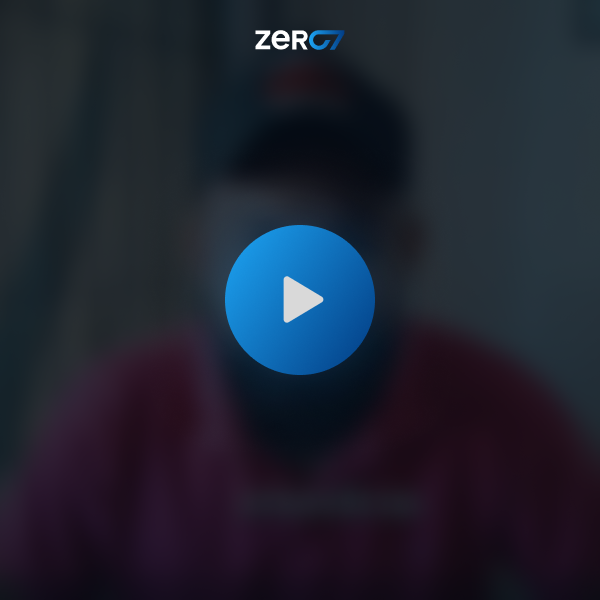
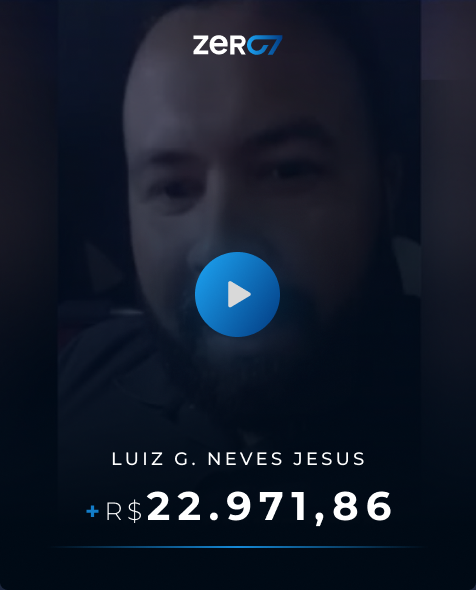
update

diff --git a/index.html b/index.html
@@ -287,50 +287,44 @@
     <section id="depoimentos">
       <div class="wrapper header">
         <div class="content">
-          <header data-aos="fade-up" >
+          <div class="cards">
+            <div class="card">
+                <img src="./assets/depoimentos/1.png" alt="">
+            </div>
+
+            <div class="card swiper-slide">
+                <img src="./assets/depoimentos/2.png" alt="">
+            </div>
+
+            <div class="card swiper-slide">
+              <img src="./assets/depoimentos/3.png" alt="">
+            </div>
+
+            <div class="card swiper-slide">
+                <img src="./assets/depoimentos/4.png" alt="">
+            </div>
+
+            <div class="card swiper-slide">
+              <img src="./assets/depoimentos/5.png" alt="">
+            </div>
+
+            <div class="card swiper-slide">
+                <img src="./assets/depoimentos/6.png" alt="">
+            </div>
+
+            <div class="card swiper-slide">
+              <img src="./assets/depoimentos/7.png" alt="">
+            </div>
+          </div>
+
+          <header data-aos="fade-up">
             <h2>TRANSFORME SUAS HABILIDADES EM <span>GRANDES PAGAMENTOS</span></h2>
             <p>A Zero7 desenvolveu um <span>modelo totalmente único</span> para se operar. Aqui, traders podem ter acesso a grandes contas, com muitos lotes, mas pagando até <span>20 vezes menos</span> do que o valor que teriam que disponibilizar em suas contas pessoais. Depois de aprovados na avaliação - com 60 dias para finalizar -, os traders iniciam sua jornada na mesa através da Incubadora, onde podem operar em ambiente simulado mas sendo recompensados com até <span>90% dos lucros</span> que fizerem, <span>sem risco nenhum ao seu próprio capital</span>. Depois, podem progredir para a conta real e avançarem com um plano de carreira desenhado para terem <span>cada vez mais lucros</span>. A Zero7 conta ainda com inúmeros benefícios, como <span>Aprovação Permanente</span>, <span>treinamentos</span> e <span>cursos completos disponíveis na Área do Trader</span>.</p>
+
+            <a href="#"><button class="button">Contrate um plano agora</button></a>
           </header>
         </div>
       </div>
-
-      <div data-aos="fade-up" class="wrapper carrossel">
-        <div class="swiper mySwiper3">
-            <div class="cards swiper-wrapper">
-                <div class="card swiper-slide">
-                    <img src="./assets/depoimentos/1.png" alt="">
-                </div>
-
-                <div class="card swiper-slide">
-                    <img src="./assets/depoimentos/2.png" alt="">
-                </div>
-
-                <div class="card swiper-slide">
-                  <img src="./assets/depoimentos/3.png" alt="">
-                </div>
-
-                <div class="card swiper-slide">
-                    <img src="./assets/depoimentos/4.png" alt="">
-                </div>
-
-                <div class="card swiper-slide">
-                  <img src="./assets/depoimentos/5.png" alt="">
-                </div>
-
-                <div class="card swiper-slide">
-                    <img src="./assets/depoimentos/6.png" alt="">
-                </div>
-
-                <div class="card swiper-slide">
-                  <img src="./assets/depoimentos/7.png" alt="">
-                </div>
-            </div>
-
-            <div class="swiper-button-next"></div>
-            <div class="swiper-button-prev"></div>
-            <div class="swiper-pagination"></div>
-        </div>
-    </div>
     </section>
 
     <section class="planos">
@@ -733,8 +727,8 @@
           </header>
 
           <div class="cards">
-            <div class="border">
-              <div data-aos="fade-up-left" class="card">
+            <div data-aos="fade-up-left" class="border">
+              <div class="card">
                 <ion-icon name="call-outline"></ion-icon>
                 <div class="text">
                   <h3>Contato</h3>
@@ -744,8 +738,8 @@
               </div>
             </div>
 
-            <div class="border">
-              <div data-aos="fade-up" class="card">
+            <div data-aos="fade-up" class="border">
+              <div class="card">
                 <ion-icon name="location-outline"></ion-icon>
                 <div class="text">
                   <h3>Endereço</h3>
@@ -754,8 +748,8 @@
               </div>
             </div>
 
-            <div class="border">
-              <div data-aos="fade-up-right" class="card">
+            <div data-aos="fade-up-right" class="border">
+              <div class="card">
                 <ion-icon name="time-outline"></ion-icon>
                 <div class="text">
                   <h3>Funcionamento</h3>
@@ -767,22 +761,22 @@
 
           <div id="suporte">
               <div class="content">
-                    <div class="border">
-                      <div data-aos="fade-up-left" class="whatsapp">
+                    <div data-aos="fade-up-left" class="border">
+                      <div class="whatsapp">
                         <ion-icon name="logo-whatsapp"></ion-icon>
         
                         <p>Atendimento por Whatsapp</p>
                       </div>
                     </div>
         
-                    <div class="border">
-                      <div data-aos="fade-up" class="image">
+                    <div data-aos="fade-up" class="border">
+                      <div class="image">
                         <img src="./assets/banner.png" alt="">
                       </div>
                     </div>
         
-                    <div class="border">
-                      <div data-aos="fade-up-right" class="ajuda">
+                    <div data-aos="fade-up-right" class="border">
+                      <div class="ajuda">
                         <span><ion-icon name="flash-outline"></ion-icon> Suporte rápido</span>
                         <h3>Precisa de <span>ajuda?</span></h3>
                         <p>Nossa equipe está <span>pronta para conversar com você</span>!</p>

diff --git a/css/sectionDepoimentos.css b/css/sectionDepoimentos.css
@@ -9,7 +9,9 @@
 }
 
 #depoimentos .cards {
-    border-radius: 1rem;
+    display: grid;
+    grid-template-columns: 1fr 1fr 1fr;
+    gap: 1rem;
 }
 
 #depoimentos .cards .card {
@@ -22,12 +24,9 @@
 
 #depoimentos .cards .card img {
     width: 100%;
-    aspect-ratio: 1/1;
     object-fit: cover;
 
     transition: all 300ms ease-in-out;
-
-    mask-image: linear-gradient(to bottom, #000 70%, transparent);
 }
 
 #depoimentos .cards .card:hover img {
@@ -39,70 +38,30 @@
     position: relative;
 }
 
-.swiper-pagination-bullet {
-    background-color: #ffffff2e; 
-    opacity: 1; 
-    width: 15px;
-    height: 4px;
-    border-radius: .3rem;
-}
-  
-.swiper-pagination-bullet-active {
-    background-color: #0080c9; 
-}
-
-.swiper-button-next {
-    top: 50%;
-    color: #ffffff; 
-    transform: scale(.7);
-}
-  
-.swiper-button-prev {
-    top: 50%;
-    color: #ffffff; 
-    transform: scale(.7);
-}
-
 @media (min-width: 1080px) {
+    section#depoimentos .content {
+        display: grid;
+        grid-template-columns: 1fr 1fr;
+        gap: 8rem;
+    }
+
+    section#depoimentos .cards {
+        display: grid;
+        grid-template-columns: 1fr 1fr 1fr;
+        gap: 1rem;
+    }
+
+    section#depoimentos header {
+        text-align: left;
+        align-items: start;
+    }
+
     section#depoimentos header h2 {
         font-size: 2.7rem;
     }
 
     section#depoimentos header p {
         font-size: 1.4rem;
-    }
-
-    section#depoimentos .content .cards {
-        overflow: initial;
-        border-radius: 0;
-    }
-
-    section#depoimentos .card img {
-        mask-image: linear-gradient(to bottom, #000 70%, transparent);
-    }
-
-    section#depoimentos .swiper {
-        position: relative;
-    }
-
-    section#depoimentos .swiper:before,
-    section#depoimentos .swiper:after {
-        content: '';
-        position: absolute;
-        top: 0;
-        width: 20rem;
-        height: 100%;
-        z-index: 2;
-    }
-    
-    section#depoimentos .swiper:before {
-        left: 0;
-        background: linear-gradient(to left, rgba(255, 255, 255, 0), #000205);
-    }
-    
-    section#depoimentos .swiper:after {
-        right: 0;
-        background: linear-gradient(to right, rgba(255, 255, 255, 0), #000205);
     }
 
     section#depoimentos .wrapper.carrossel {

diff --git a/css/sectionCards.css b/css/sectionCards.css
@@ -31,6 +31,10 @@
     bottom: 0;
 }
 
+#cards::before {
+    display: none;
+}
+
 #cards .content {
     position: relative;
     z-index: 1;
@@ -172,6 +176,10 @@
 
     section#cards header h2 {
         width: 70%;
+    }
+
+    section#cards img.bgsection {
+        mask-image: linear-gradient(to top, #000 80%, transparent);
     }
 
     section#cards .cards .row-1 {

diff --git a/css/home.css b/css/home.css
@@ -49,12 +49,16 @@
     font-family: var(--ncs);
     text-transform: uppercase;
     font-weight: 500;
+    line-height: 1.2;
   }
   
   #home h1 span {
-    font-size: 4rem;
+    font-size: 2.5rem;
     font-family: var(--ncs);
     color: var(--primary-color);
+
+    min-width: 50%;
+    text-align: right;
   }
 
   .reveal-wrapper {

diff --git a/css/button.css b/css/button.css
@@ -1,7 +1,7 @@
 /* From Uiverse.io by adeladel522 */ 
 a {
     text-decoration: none;
-
+    width: 100%;
 }
 
 .button {
@@ -78,6 +78,9 @@ a {
   }
 
   @media (min-width: 1080px) {
+    a {
+      width: initial;
+    }
     button.button {
         width: initial;
         padding: 2rem 4.5rem;

diff --git a/css/sectionDivisa.css b/css/sectionDivisa.css
@@ -89,9 +89,9 @@
 @media (min-width: 1080px) {
     section#divisa {
         padding-top: 0;
-        margin-top: -3rem;
+        margin-top: 0;
 
-        padding-bottom: 6rem;
+        padding-bottom: 2rem;
     }
 
     section#divisa .cards {

diff --git a/script.js b/script.js
@@ -27,7 +27,7 @@ AOS.init(
   }
 );
 
-const words = ["acessível", "seguro", "lucrativo"];
+const words = ["acessível", "seguro", "lucrativo"];
 let index = 0;
 
 const wordEl = document.querySelector(".reveal-word");

diff --git a/css/head.css b/css/head.css
@@ -9,7 +9,7 @@ header {
 
 header h2 {
     color: #ffffff;
-    font-size: 2.5rem;
+    font-size: 2rem;
   
     font-family: var(--ncs);
     text-transform: uppercase;
